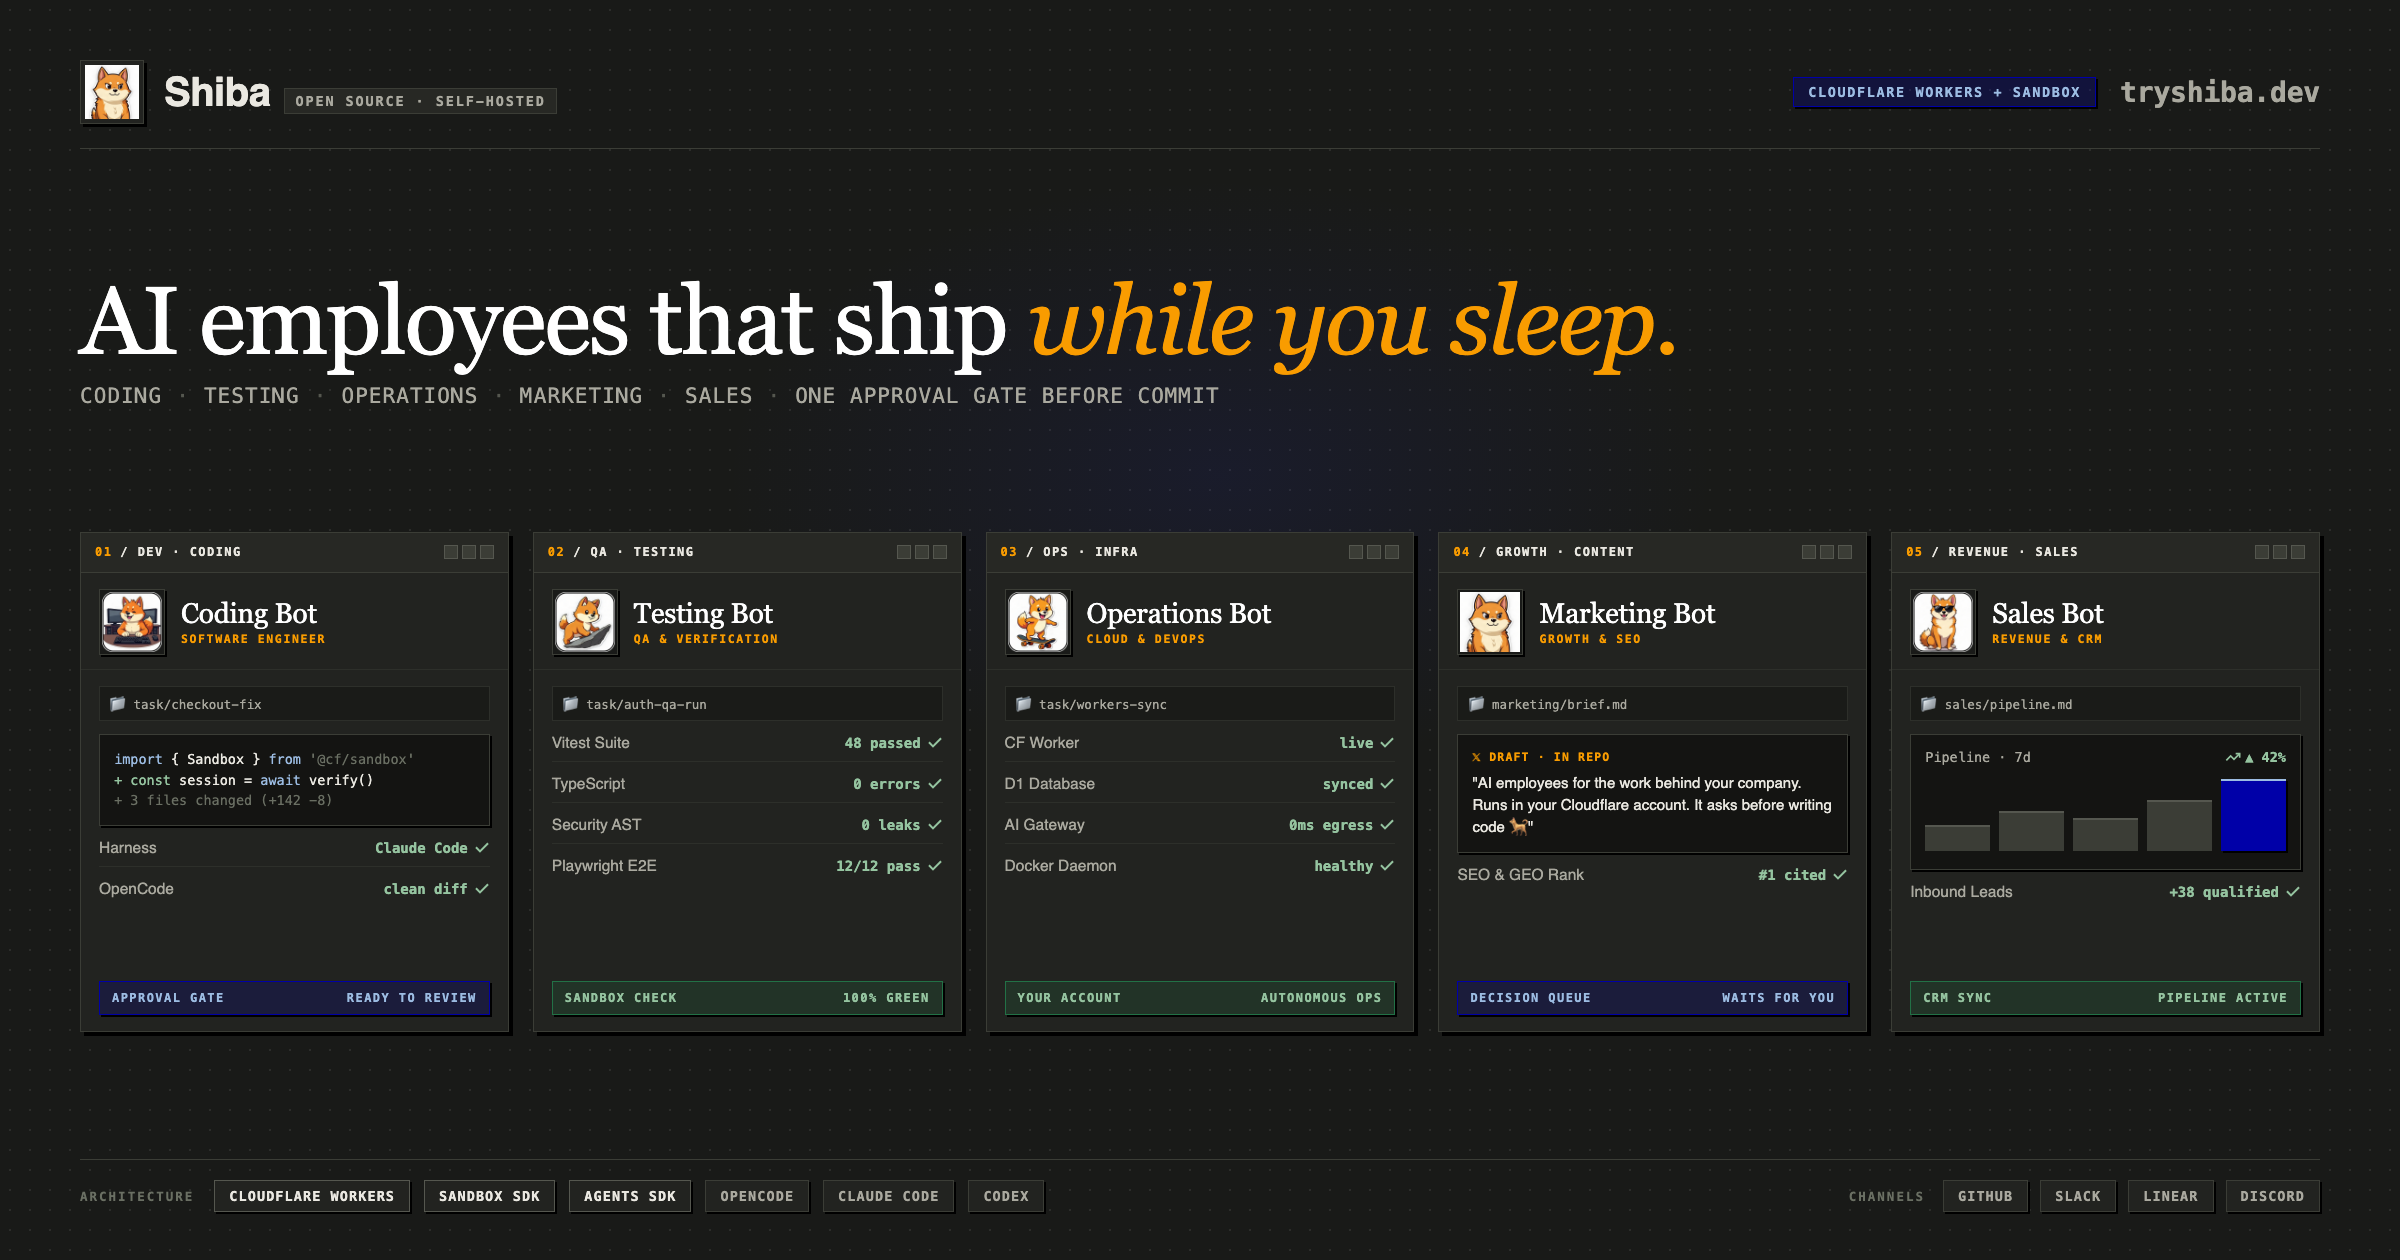
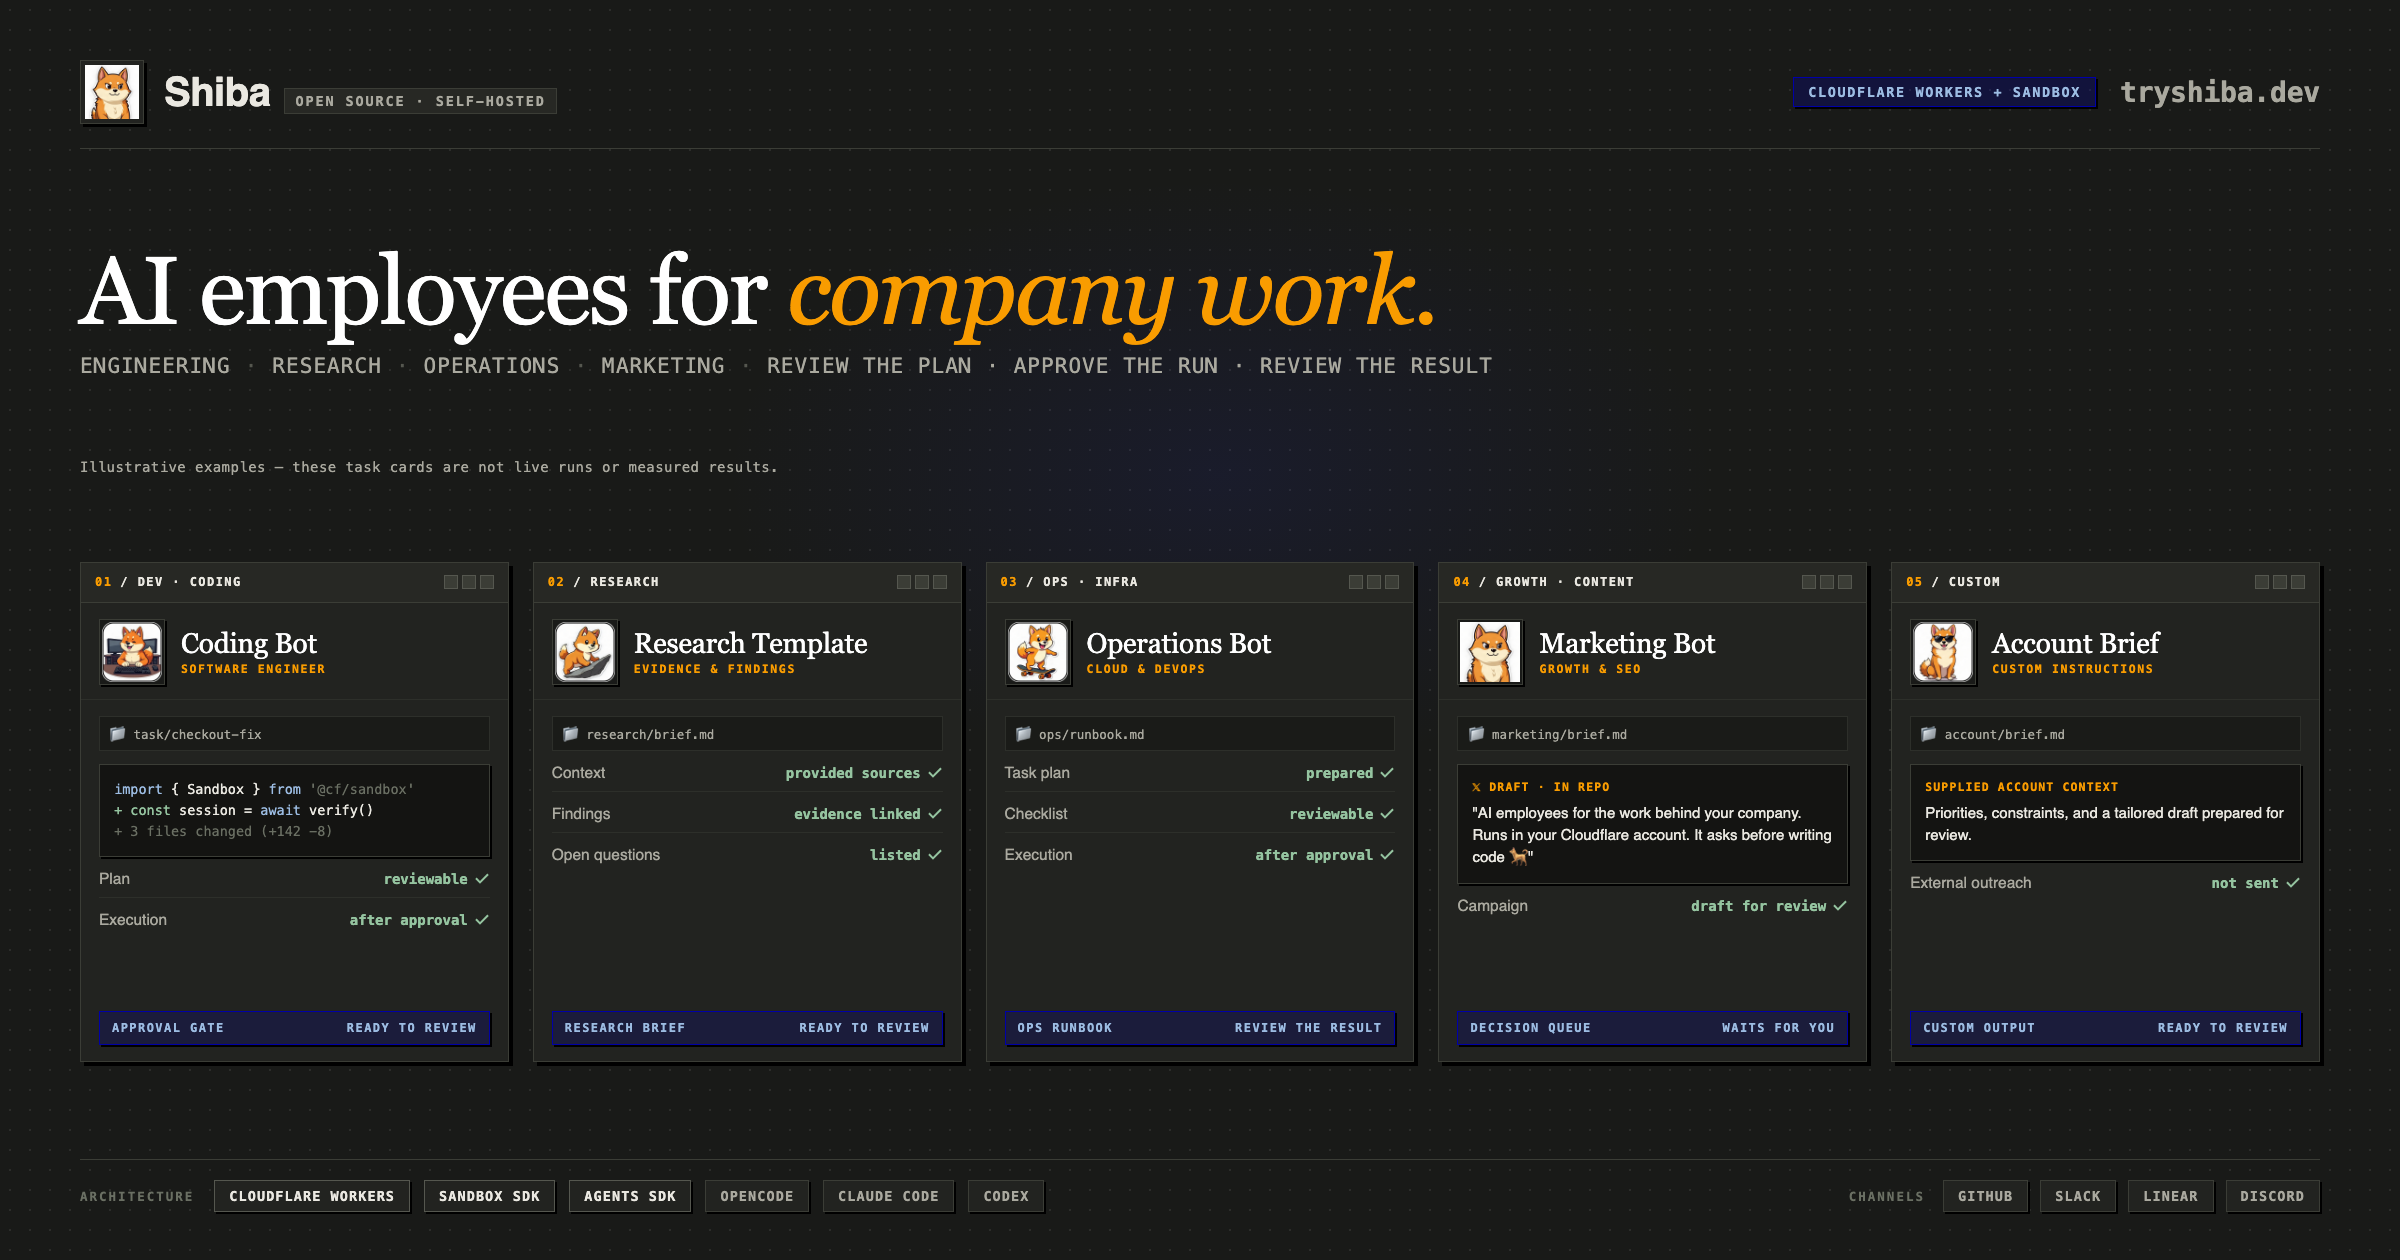
fix(web): align SEO previews and sitemap output

diff --git a/apps/web/src/pages/sitemap.xml.ts b/apps/web/src/pages/sitemap.xml.ts
@@ -1,46 +1,40 @@
-import { execFileSync } from 'node:child_process';
 import { getCollection } from 'astro:content';
 import { entryRouteKey, getCollectionUrl, getVersionStatus, getVisibleEntries, isDiscoverable } from '@cloudflare/nimbus-docs/runtime';
 import { getPublishedPosts } from '../lib/journal';
 
 const SITE = 'https://tryshiba.dev';
 const day = (d: Date) => d.toISOString().slice(0, 10);
-
-// Last commit date of a source file; shallow CI clones collapse to HEAD's date, never throws.
-function gitDay(file: string): string {
-	try {
-		const out = execFileSync('git', ['log', '-1', '--format=%cI', '--', file], { encoding: 'utf8' }).trim();
-		if (out) return out.slice(0, 10);
-	} catch {}
-	return day(new Date());
-}
+const escapeXml = (value: string) => value.replace(/&/g, '&amp;').replace(/</g, '&lt;').replace(/>/g, '&gt;');
 
 export async function GET() {
 	const docs = await getCollection('docs');
 	const posts = await getPublishedPosts();
 	const postDay = (p: (typeof posts)[number]) => day(p.data.updatedDate ?? p.data.pubDate);
-	const newest = (ps: typeof posts) => ps.map(postDay).sort().at(-1) ?? gitDay('src/pages/blog/index.astro');
+	const newest = (ps: typeof posts) => ps.map(postDay).sort().at(-1);
 
-	const entries: Array<{ path: string; lastmod: string }> = [
-		{ path: '/', lastmod: gitDay('src/pages/index.astro') },
-		{ path: '/why-shiba/', lastmod: gitDay('src/pages/why-shiba.astro') },
-		{ path: '/waitlist/', lastmod: gitDay('src/pages/waitlist.astro') },
-		{ path: '/network/', lastmod: gitDay('src/pages/network.astro') },
-		{ path: '/integrations/', lastmod: gitDay('src/pages/integrations.astro') },
+	// Only editorial posts have verified dates. Do not substitute commit or build
+	// dates for content modification dates on pages without an explicit date.
+	const entries: Array<{ path: string; lastmod?: string }> = [
+		{ path: '/' },
+		{ path: '/why-shiba/' },
+		{ path: '/waitlist/' },
+		{ path: '/network/' },
+		{ path: '/integrations/' },
 		{ path: '/blog/', lastmod: newest(posts) },
-		{ path: '/privacy/', lastmod: gitDay('src/pages/privacy.astro') },
-		{ path: '/terms/', lastmod: gitDay('src/pages/terms.astro') },
+		{ path: '/privacy/' },
+		{ path: '/terms/' },
 	];
 
-	// /blog/category/<c>/ only builds for categories that have posts.
+	// Match the category template's noindex threshold for thin archives.
 	for (const category of new Set(posts.map((p) => p.data.category))) {
-		entries.push({ path: `/blog/category/${category}/`, lastmod: newest(posts.filter((p) => p.data.category === category)) });
+		const categoryPosts = posts.filter((p) => p.data.category === category);
+		if (categoryPosts.length < 2) continue;
+		entries.push({ path: `/blog/category/${category}/`, lastmod: newest(categoryPosts) });
 	}
 	for (const post of posts) entries.push({ path: `/blog/${post.id}/`, lastmod: postDay(post) });
 	for (const d of docs.filter((d) => d.id !== '404' && isDiscoverable(d))) {
 		entries.push({
 			path: `/${entryRouteKey(d.id)}/`.replace(/\/+/g, '/'),
-			lastmod: d.filePath ? gitDay(d.filePath) : day(new Date()),
 		});
 	}
 	const apiRoot = await getCollectionUrl('api');
@@ -49,15 +43,14 @@ export async function GET() {
 		if (!isDiscoverable(entry) || status?.isHidden) continue;
 		entries.push({
 			path: `${apiRoot}/${entryRouteKey(entry.id)}/`.replace(/\/+/g, '/'),
-			lastmod: gitDay('../backend/src/v1/openapi.json'),
 		});
 	}
 
-	const unique = new Map<string, string>();
+	const unique = new Map<string, string | undefined>();
 	for (const e of entries) if (!e.path.startsWith('/404') && !unique.has(e.path)) unique.set(e.path, e.lastmod);
 
 	const urls = [...unique]
-		.map(([path, lastmod]) => `  <url>\n    <loc>${SITE}${path}</loc>\n    <lastmod>${lastmod}</lastmod>\n  </url>`)
+		.map(([path, lastmod]) => `  <url>\n    <loc>${escapeXml(new URL(path, SITE).href)}</loc>${lastmod ? `\n    <lastmod>${lastmod}</lastmod>` : ''}\n  </url>`)
 		.join('\n');
 
 	return new Response(
